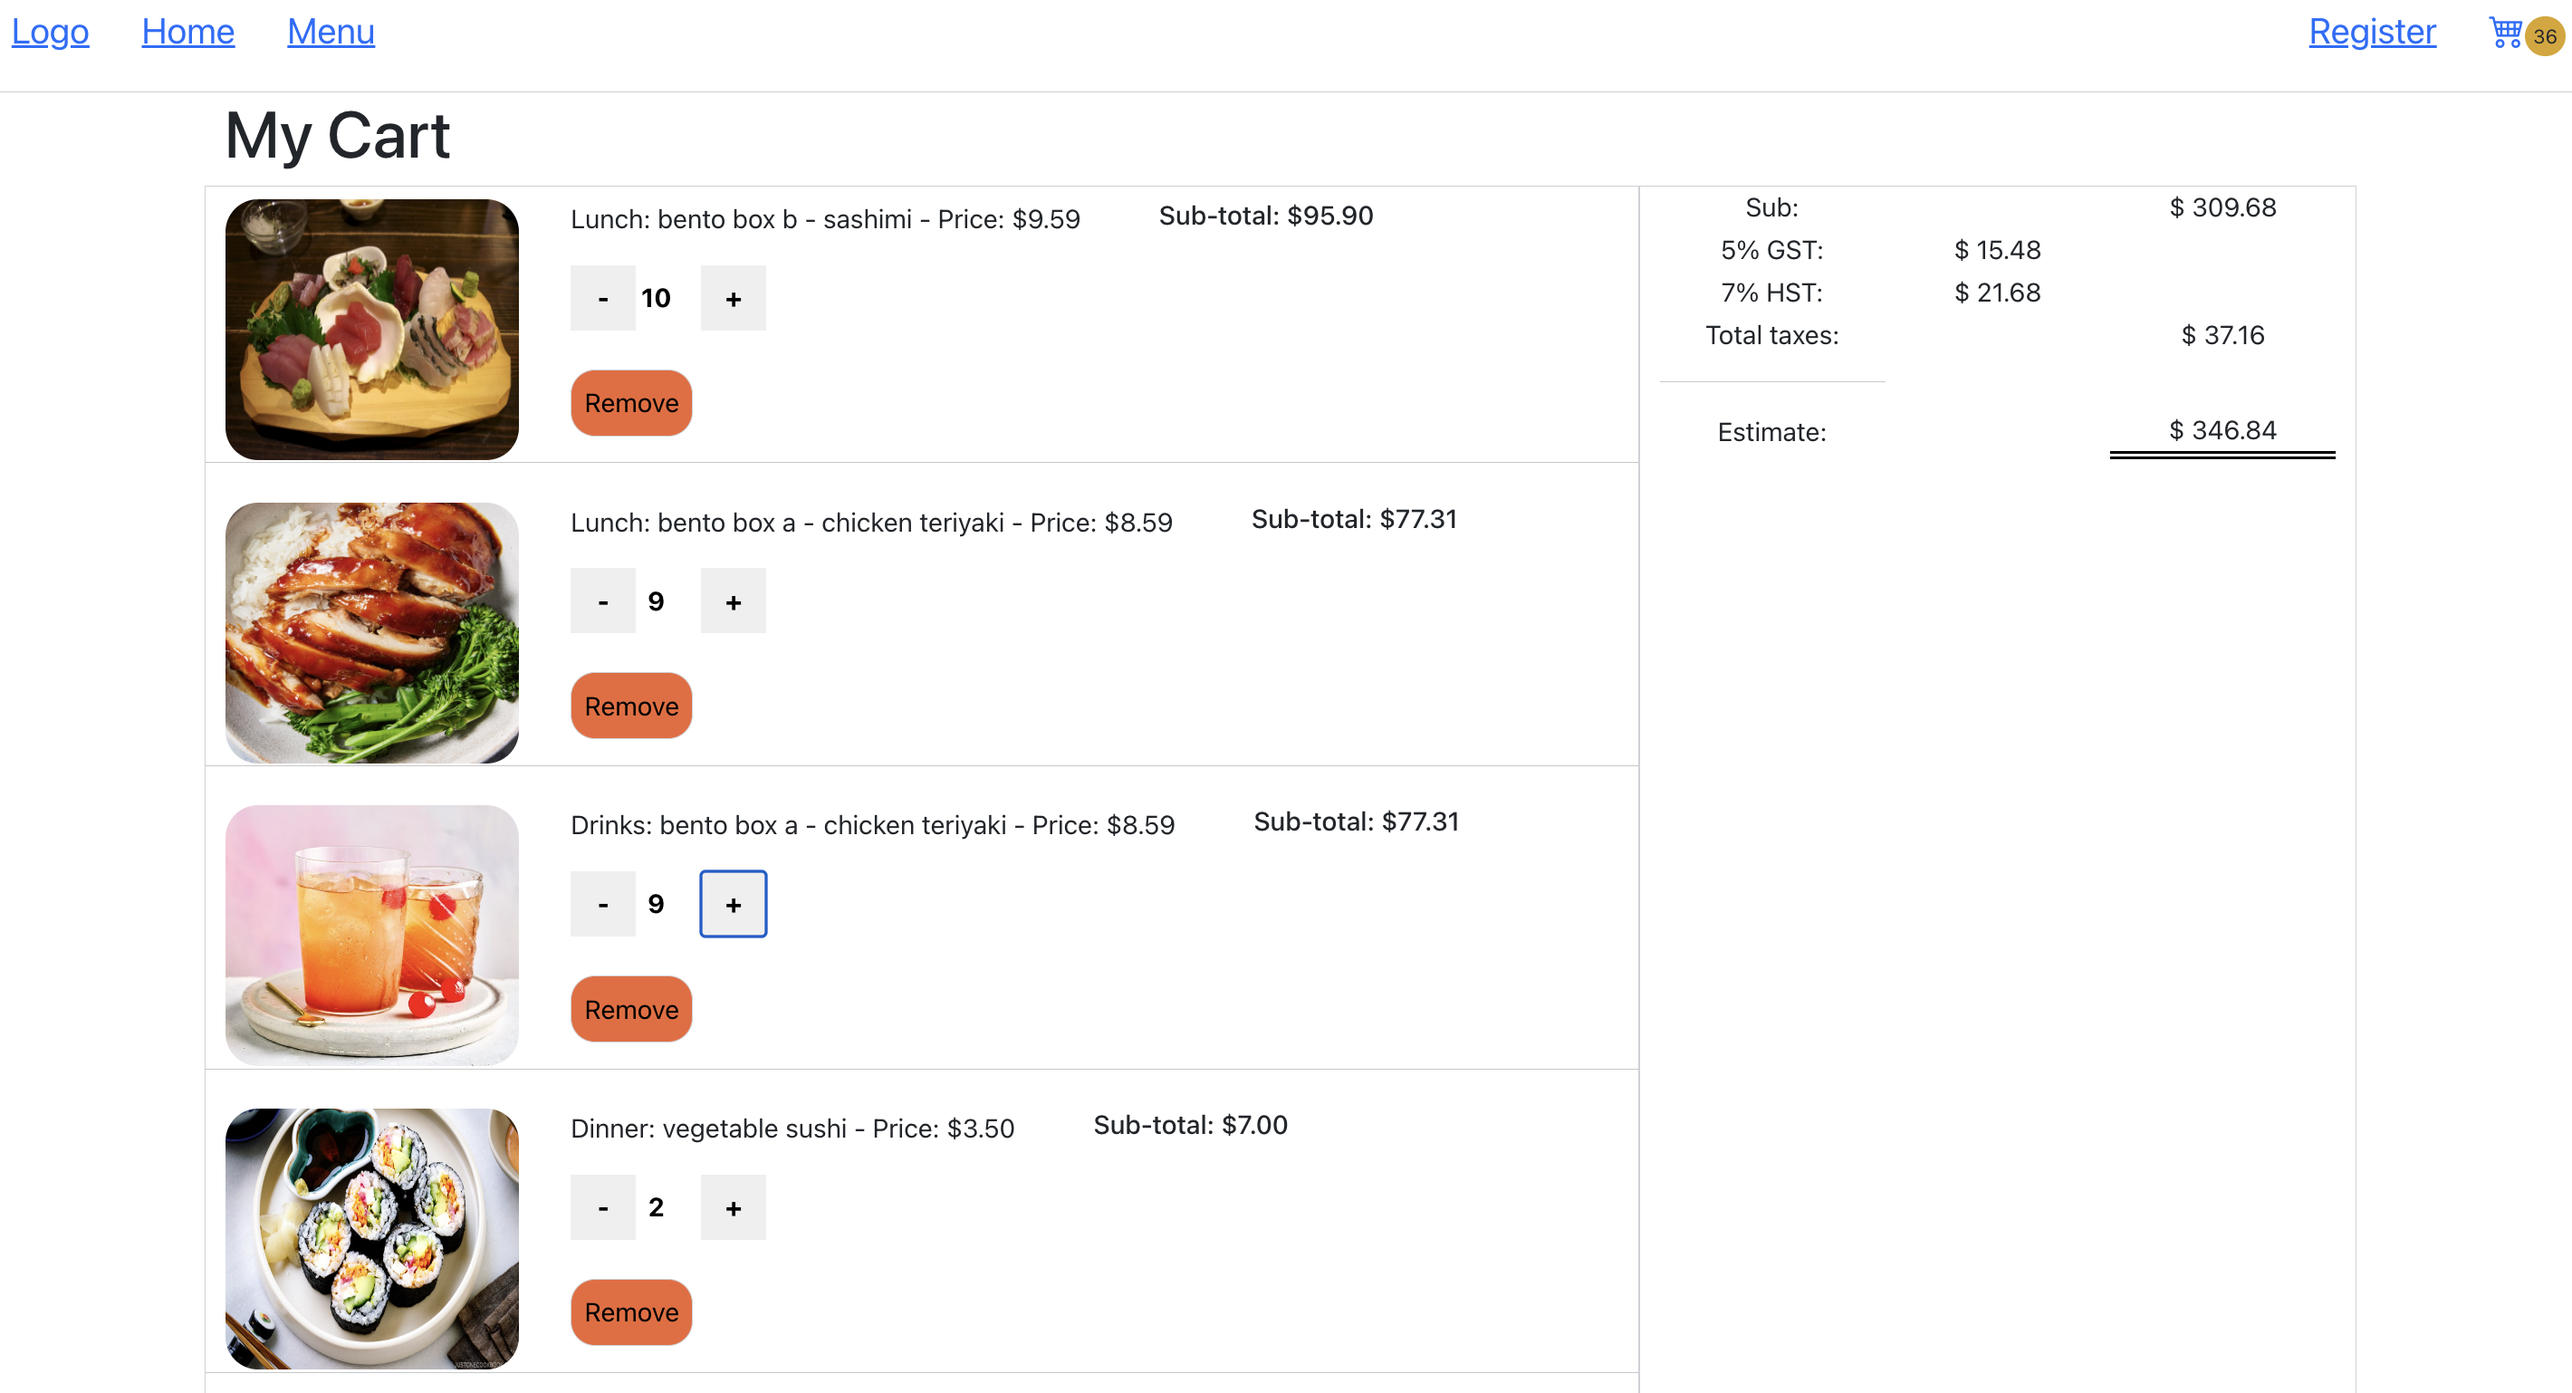
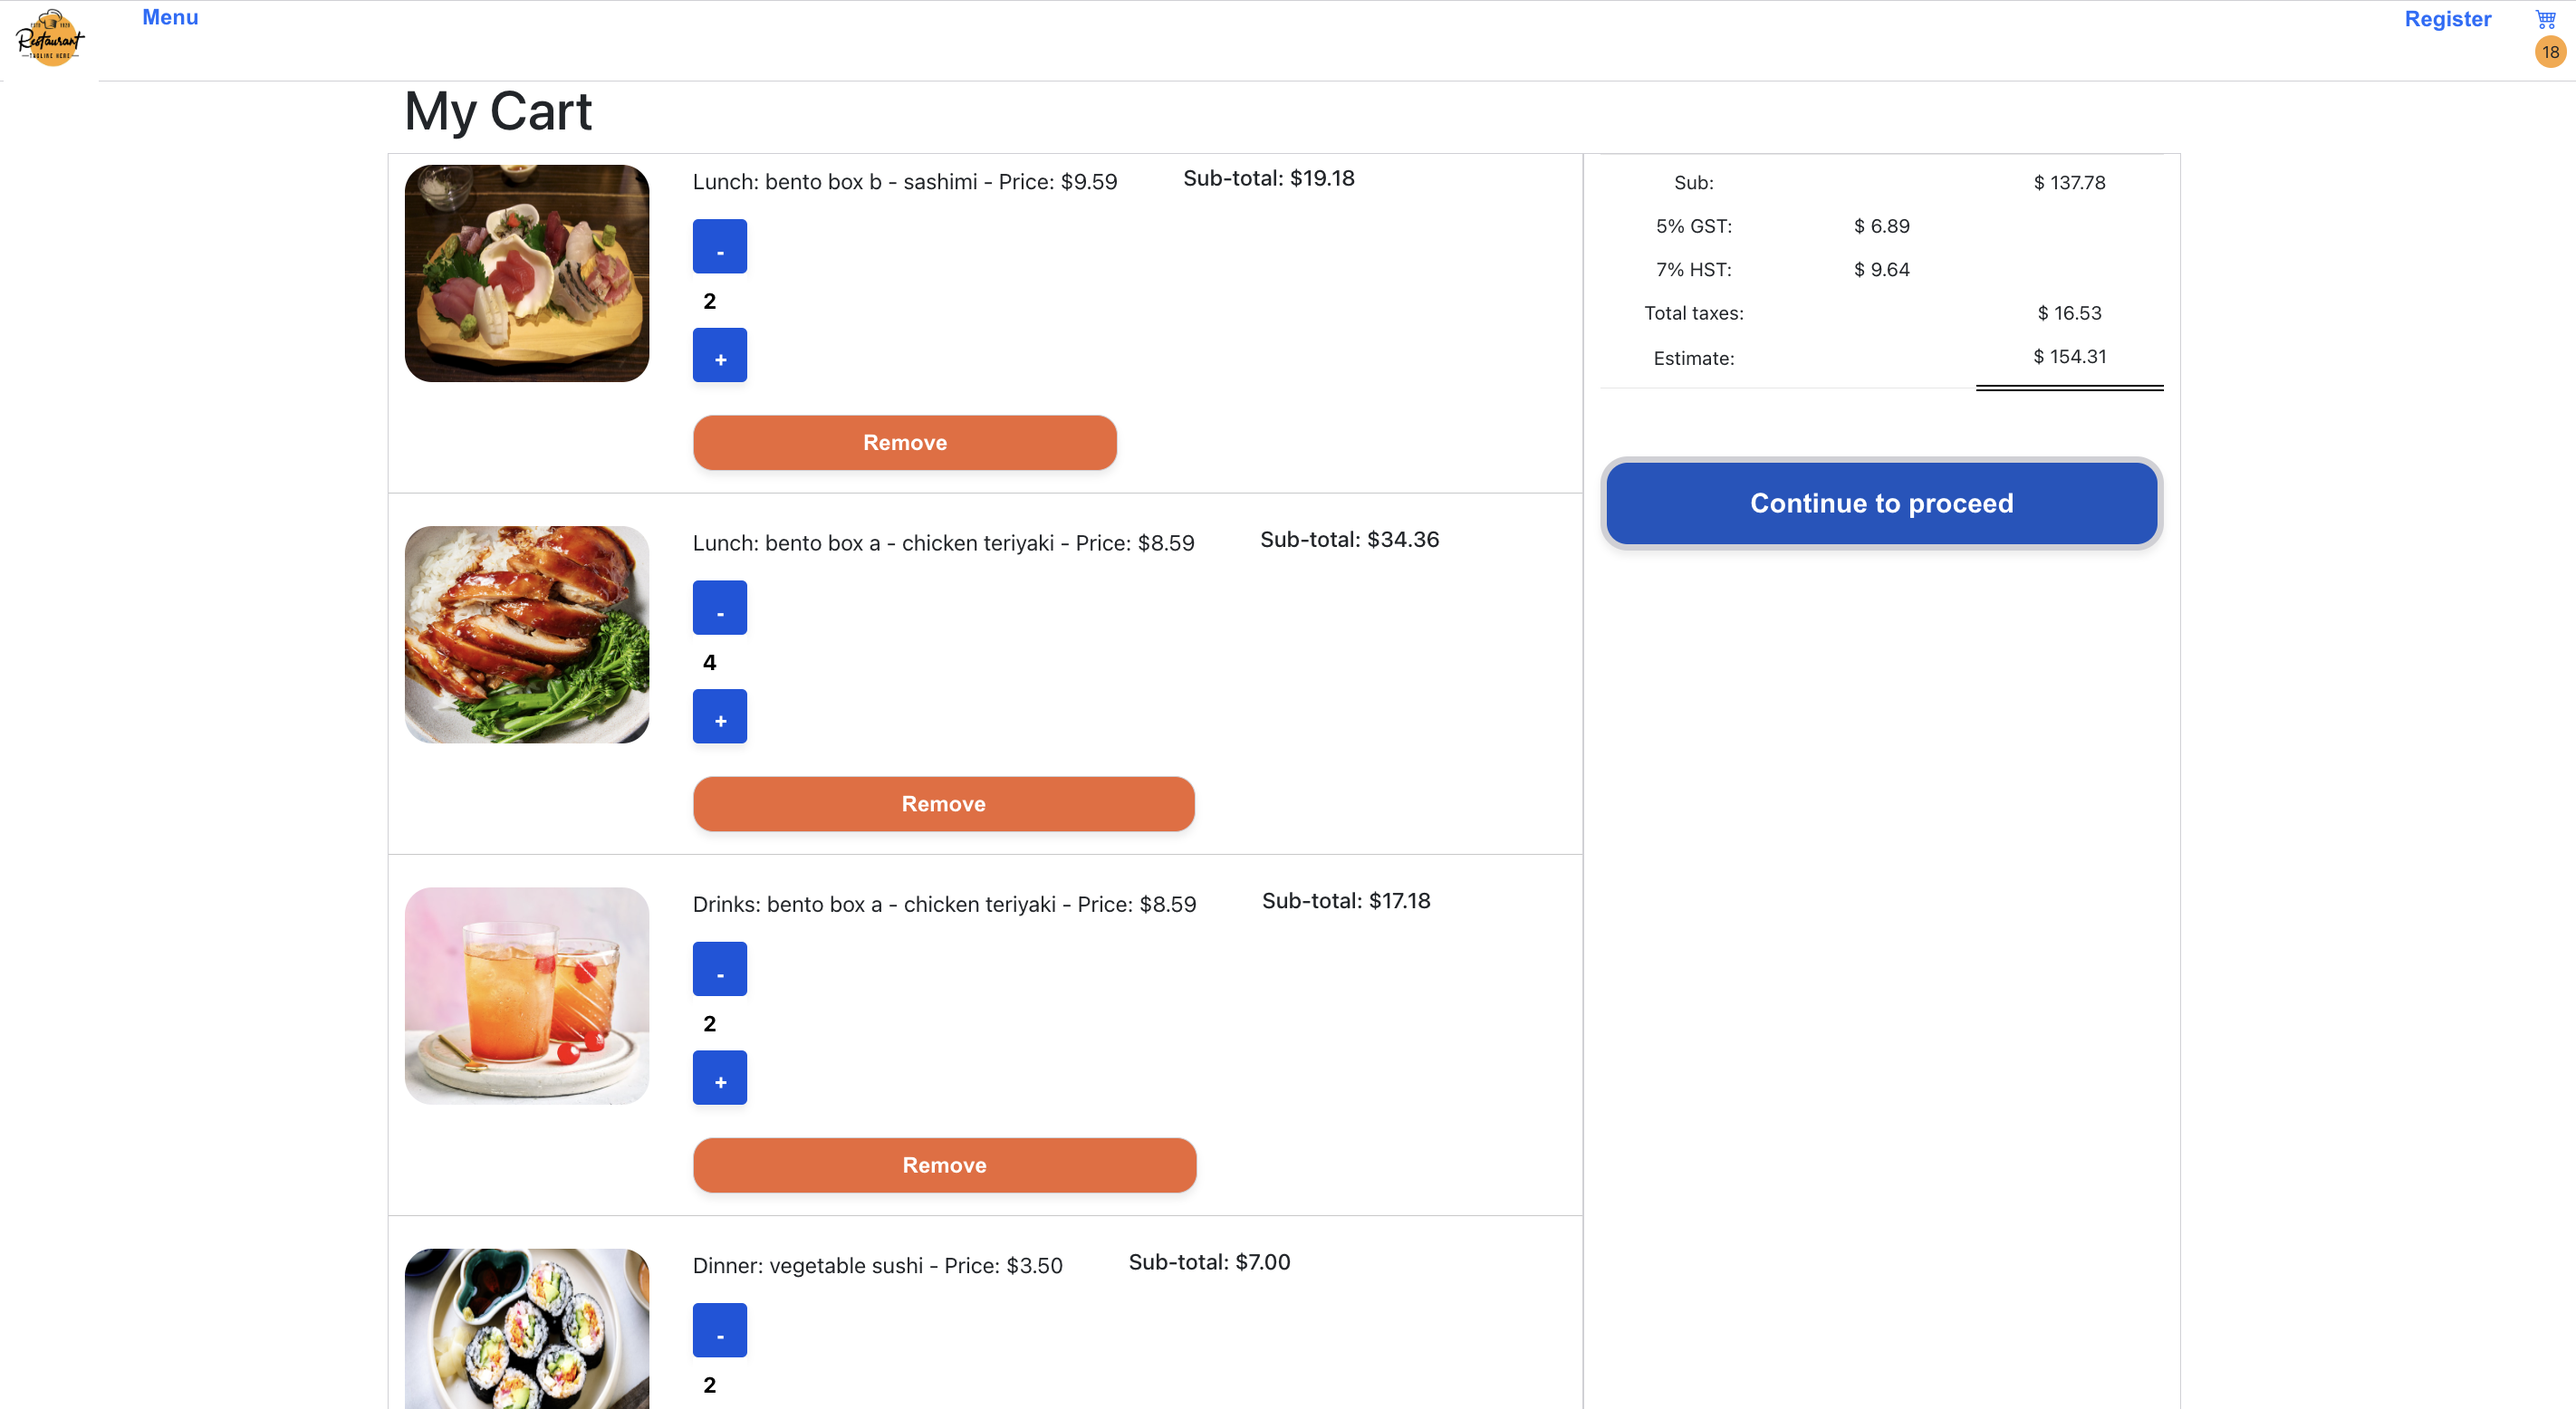
changed images

diff --git a/frontend/src/css/cart-style.css b/frontend/src/css/cart-style.css
@@ -28,7 +28,7 @@
    text-align: center;    
 }
 .processToPay {
-   background-color:lightblue;
+   background-color:rgb(18, 85, 192);
    padding:15px;
    border-radius:20px;
    border:5px solid #d0d0d5;

diff --git a/README.md b/README.md
@@ -3,3 +3,6 @@
 <hr/>
 
 ![cart](frontend/public/cart.png)
+<hr/>
+
+![successStripe](frontend/public/successStripe.png)
